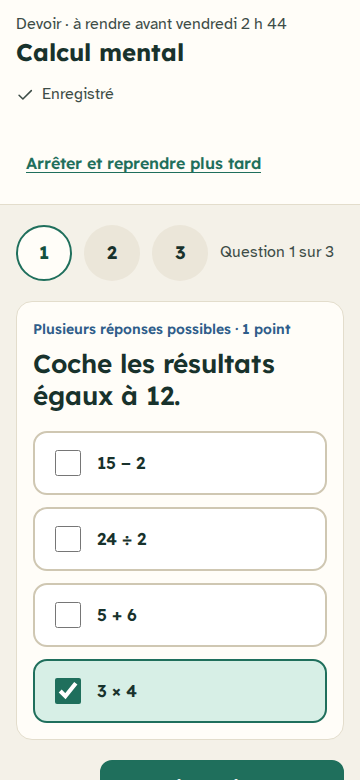
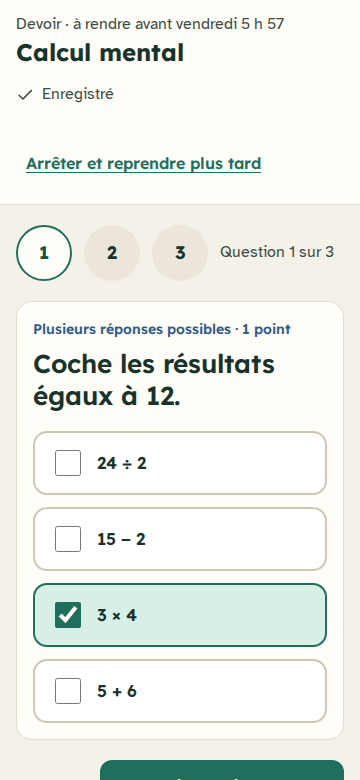
docs(lot-08): suites du verdict — captures régénérées, recompte des tests, rapport ; E2E ajustés aux heures insécables

diff --git a/e2e/tests/ecrans.spec.ts b/e2e/tests/ecrans.spec.ts
@@ -295,7 +295,7 @@ test("espace élève : accueil, cours, devoir en mode focus, copie corrigée, pr
   // Mes devoirs (L8, correction 2) : un devoir « bientôt » dit quand il s'ouvre.
   await page.goto("/eleve/devoirs");
   const upcoming = page.getByRole("listitem").filter({ hasText: "Périmètre et aire" });
-  await expect(upcoming.getByText(/^Bientôt : s'ouvre le \w+ \d+ \w+ à \d+ h/)).toBeVisible();
+  await expect(upcoming.getByText(/^Bientôt : s'ouvre le \w+ \d+ \w+ à\s\d+\sh/)).toBeVisible();
   await expect(upcoming.getByText(/^S'ouvre le /)).toBeVisible();
   await checkScreen(page, "Eleve-Devoirs");
 
@@ -420,7 +420,7 @@ test("espace tuteur : aujourd'hui, programme, compétences, épreuves, correctio
     await expect(page.getByRole("heading", { name: heading, level: 1 })).toBeVisible();
     await page.waitForLoadState("networkidle");
     if (name === "Tuteur-Accueil") {
-      await expect(page.getByRole("link", { name: /Corriger la copie de Lina/ })).toBeVisible();
+      await expect(page.getByRole("link", { name: /Corriger la copie de Lina/ }).first()).toBeVisible();
       await expect(page.getByRole("link", { name: /^Corrections\W+1 copie à corriger$/ })).toBeVisible();
     }
     if (name === "Tuteur-Epreuves") {

diff --git a/e2e/tests/progress.spec.ts b/e2e/tests/progress.spec.ts
@@ -7,9 +7,9 @@ test("l'élève voit sa progression : ses points arrivent par le relais (CoursTe
   const state = e2eState();
   await loginLearner(page, state);
   await expect(page.getByRole("heading", { name: "Mes progrès" })).toBeVisible();
-  await expect(page.getByText(/points · niveau 0/)).toBeVisible();
+  await expect(page.getByText(/points · niveau \d+/)).toBeVisible();
   await page.goto("/eleve/progres");
-  await expect(page.getByText("Niveau 0", { exact: true })).toBeVisible();
+  await expect(page.getByText(/^Niveau \d+$/)).toBeVisible();
   await expect(page.locator(".xp-number")).toHaveText(/^[1-9][0-9]*$/);
   await expect(page.getByRole("heading", { name: "Ma série : 1 semaine" })).toBeVisible();
 });

diff --git a/docs/revue/rapport-lot-08.md b/docs/revue/rapport-lot-08.md
@@ -15,7 +15,7 @@ La charte « l'ardoise et le cahier » est appliquée à tous les écrans : jeto
 | Critère (`plan/jalons.md`, L8) | Statut | Preuve |
 |---|---|---|
 | Chaque écran correspond à sa maquette (structure, hiérarchie, couleurs, textes), captures jointes, écarts justifiés | Fait | 34 captures dans [`captures-lot-08/`](captures-lot-08/) (mêmes noms que les maquettes) ; écarts au §5 |
-| Aucune règle métier ni contrat d'API ne change, sauf les cinq corrections ; toute la suite reste verte, matrice des droits comprise | Fait | §4 : 694 tests unitaires, 449 tests d'intégration (dont la matrice des droits), 17 E2E. Seuls changements côté API : `HEAD` (correction 5) et le **type** des codes d'audit (correction 3), sans changement du JSON servi |
+| Aucune règle métier ni contrat d'API ne change, sauf les cinq corrections ; toute la suite reste verte, matrice des droits comprise | Fait | §4 : 693 tests unitaires (697 après les suites, §9), 449 tests d'intégration (dont la matrice des droits), 17 E2E. Seuls changements côté API : `HEAD` (correction 5) et le **type** des codes d'audit (correction 3), sans changement du JSON servi |
 | E2E sous la CSP de production sur tous les écrans refaits, sans ouverture nouvelle de la CSP | Fait | `e2e/tests/ecrans.spec.ts` : 27 écrans, la fixture fait échouer toute violation de CSP et toute ressource `/assets/` en erreur. `hardening.ts` n'est pas modifié |
 | Exigences du §8 testées en E2E : contrastes, cibles 48/56 px, tabulation avec focus visible, pas de défilement horizontal à 360 px | Fait | `e2e/a11y.ts` et `ecrans.spec.ts` : axe-core (WCAG 2.2 A et AA, contrastes compris) ; mesure de chaque élément interactif ; parcours à la touche Tab avec anneau ≥ 2 px ; 25 écrans à 360 px |
 | Paquet principal : pas plus de 30 ko compressés en plus | Fait | +13,1 ko (gzip -9), mesure au §6. Polices à part : 92,7 ko de WOFF2 |
@@ -40,7 +40,7 @@ Lancées réellement sur la branche, après le dernier commit de code :
 ```
 npm run lint             → 0 erreur, Prettier conforme
 npm run typecheck        → 0 erreur (5 workspaces + e2e)
-npm test                 → 41 fichiers, 694 tests réussis
+npm test                 → 41 fichiers, 693 tests réussis (recompté, voir §9)
 npm run test:integration → 26 fichiers, 449 tests réussis (Postgres 16.14 réel)
 npm run depcruise        → aucune violation (182 modules)
 npm audit --audit-level=high → 0 vulnérabilité
@@ -110,4 +110,36 @@ Pour tenir le budget, l'espace du tuteur entier est chargé à la demande (comme
 - Le test unitaire de la correction 1 ne reproduisait pas le défaut dans jsdom tant qu'il ne vérifiait que l'affichage : la nouvelle page de connexion se réabonne à « qui est connecté », ce qui masquait l'ancien défaut. Il vérifie maintenant aussi qu'aucun appel à `/api/me` n'est nécessaire ; l'E2E reste la preuve principale.
 - Le lien `p > a:only-child` (et les liens de tableau) reçoivent une hauteur de 48 ou 56 px pour la règle des cibles : c'est voulu, mais tout nouveau lien seul dans un paragraphe en héritera.
 
-Lot 08 prêt pour revue.
+
+## 9. Suites du verdict
+
+| Suite | Fait | Test |
+|---|---|---|
+| Fichiers du lead (verdict, charte §5 à 48 px, README « L8 accepté ») | Commités tels quels | — |
+| S-1 · Heures insécables | `ui/format.ts` : espace insécable (`NBSP`) entre l'heure, « h » et les minutes, et entre « à » et l'heure. Les rares phrases écrites à la main (« Jeudi 15 octobre à 6 h 10 », « possible dès 17 h 45 ») utilisent le même `NBSP` | `apps/web/test/format.test.ts › « S-1 : l'heure ne se coupe jamais, ni de son « à », ni de son jour »` ; capture `Eleve-Accueil.png` (« à 6 h 10 » passe à la ligne d'un bloc) |
+| S-2 · Un seul format « 2 h 55 » | Un seul formateur (`clockFr`) : `hourFr` (instant ISO), `localHourFr` (heure locale « 14:05 » de l'agenda), `shortDateTime` (journal, appareils, file de correction : « 15 oct. à 5 h 58 »). Agenda du parent et semaine du tuteur passent par `localHourFr` | `format.test.ts › « S-2 : un seul format… »` et « aucun format horaire « hh:mm » ne sort du formateur » ; capture `Tuteur-Journal.png` |
+| S-4 · Icône sur « Moi » | Icône Lucide `user` (ajoutée à `tools/lucide-icons.mjs`) sur les deux liens « Moi » de l'élève | `apps/web/test/learnerMenu.test.tsx › « chaque entrée a une icône et un mot, « Moi » compris »` |
+| S-3 · Une seule source des codes d'audit | Non traité, prévu au J2 par le verdict | — |
+| Recompte des tests | **693** au commit relu, comme le lead. Mon « 694 » venait d'un passage lancé avant que je retire un test de `opening.test.tsx`. Les suites ajoutent 4 tests : **697** | `npm test` ci-dessous |
+| Captures | Les 34 captures de `captures-lot-08/` régénérées après les suites, par l'E2E (`E2E_CAPTURES`) | — |
+
+Trois assertions d'E2E ont été ajustées : une expression régulière qui attendait une espace ordinaire avant l'heure (`\s` désormais), et deux qui supposaient un niveau ou un nombre de copies fixes, alors que le niveau dépend des données semées par les autres tests (`\d+`, `.first()`).
+
+Commits des suites : `a941aba` (fichiers du lead), `20b861e` (S-1, S-2, S-4), puis le commit qui contient ce paragraphe (tests E2E, captures, rapport).
+
+Sortie des vérifications, après les suites :
+
+```
+npm run lint             → 0 erreur, Prettier conforme
+npm run typecheck        → 0 erreur
+npm test                 → 43 fichiers, 697 tests réussis
+npm run test:integration → 26 fichiers, 449 tests réussis (Postgres réel)
+npm run depcruise        → aucune violation (182 modules, 714 dépendances)
+npm audit --audit-level=high → 0 vulnérabilité
+node tools/check-licenses.mjs → 290 dépendances livrées, toutes permissives
+npx playwright test (E2E, CSP de production) → 17 tests réussis
+```
+
+CI de la PR #15 : voir la PR (vérifiée verte avant l'arrêt).
+
+Suites traitées ; j'attends le feu vert du §8 du verdict avant de fusionner et de poser le tag `v1.1.0`.
